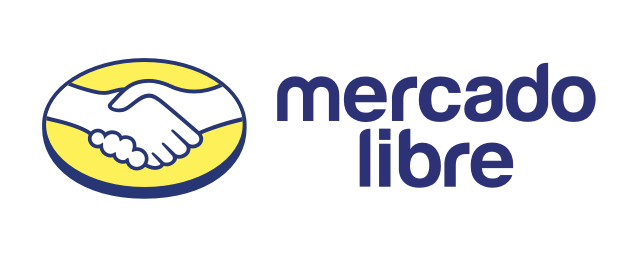
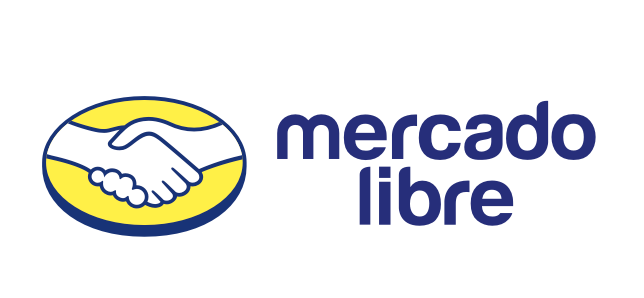
Cambio sponsor Meli + Congress

Changed region(s): [[0.0621, 0.2146, 0.9317, 0.7969]]

diff --git a/index.html b/index.html
@@ -324,6 +324,7 @@ Jason también ilustró dos libros de física teórica con el renombrado cientí
                 <div class="row">
                     <div class="col-md-12">
                         <h3>Bronce</h3>
+						<a href="http://mercadolibre.com/" target="_blank"><img id="medium" src="images/sponsors/meli.png" alt=""></a>
                         <a href="http://www.infragistics.com/products/indigo-studio" target="_blank"><img  src="images/sponsors/indigo.png" alt=""></a>
 						<a href="http://www.intel.com" target="_blank"><img id="small" src="images/sponsors/intel.jpg" alt=""></a>
                     </div>
@@ -331,7 +332,7 @@ Jason también ilustró dos libros de física teórica con el renombrado cientí
                 <div class="row">
                     <div class="col-md-12">
                         <h3>Participan</h3>
-                        <a href="http://mercadolibre.com/" target="_blank"><img id="medium" src="images/sponsors/meli.png" alt=""></a>
+                        <a href="http://congressrental.com/" target="_blank"><img id="xsmall" src="images/sponsors/congress.png" alt=""></a>
 						<a href="http://www.cba.gov.ar" target="_blank"><img src="images/sponsors/pyme.jpg" alt=""></a>
                         <a href="http://globant.com/" target="_blank"><img id="medium" src="images/sponsors/globant.png" alt=""></a>
 						<a href="http://www.konradking.com/" target="_blank"><img id="small" src="images/sponsors/konradxking.png" alt=""></a>

diff --git a/index.en.html b/index.en.html
@@ -294,14 +294,15 @@
                 <div class="row">
                     <div class="col-md-12">
                         <h3>Bronze</h3>
-                        <a href="http://www.infragistics.com/products/indigo-studio" target="_blank"><img  src="images/sponsors/indigo.png" alt=""></a>
+                        <a href="http://mercadolibre.com/" target="_blank"><img id="medium" src="images/sponsors/meli.png" alt=""></a>
+						<a href="http://www.infragistics.com/products/indigo-studio" target="_blank"><img  src="images/sponsors/indigo.png" alt=""></a>
 						<a href="http://www.intel.com" target="_blank"><img id="small" src="images/sponsors/intel.jpg" alt=""></a>
                     </div>
                 </div>
                 <div class="row">
                     <div class="col-md-12">
                         <h3>Partners</h3>
-                        <a href="http://mercadolibre.com/" target="_blank"><img id="medium" src="images/sponsors/meli.png" alt=""></a>
+                        <a href="http://congressrental.com/" target="_blank"><img id="xsmall" src="images/sponsors/congress.png" alt=""></a>
 						<a href="http://www.cba.gov.ar" target="_blank"><img src="images/sponsors/pyme.jpg" alt=""></a>
                         <a href="http://globant.com/" target="_blank"><img id="medium" src="images/sponsors/globant.png" alt=""></a>
 						<a href="http://www.konradking.com/" target="_blank"><img id="small" src="images/sponsors/konradxking.png" alt=""></a>
